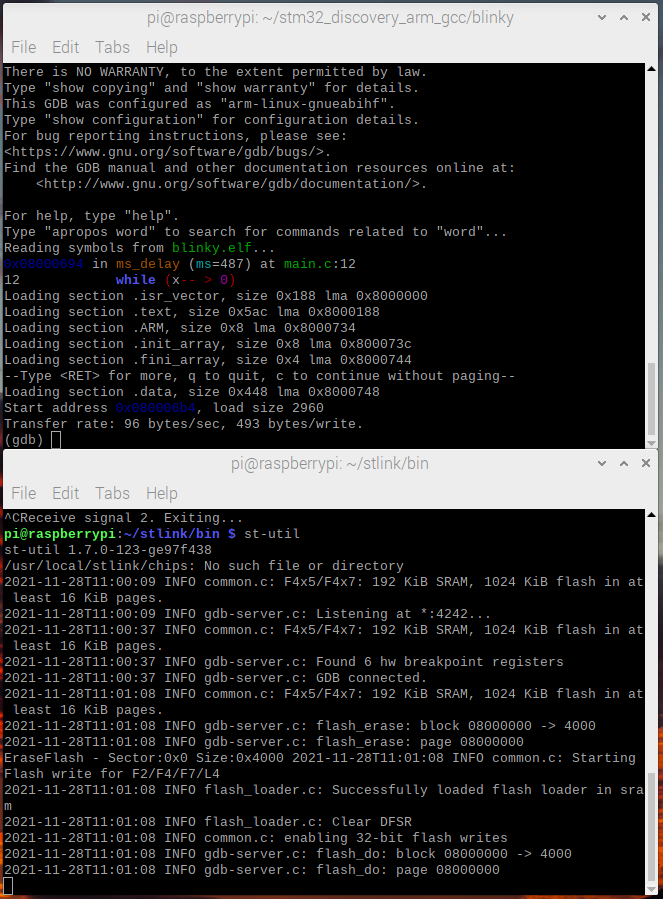
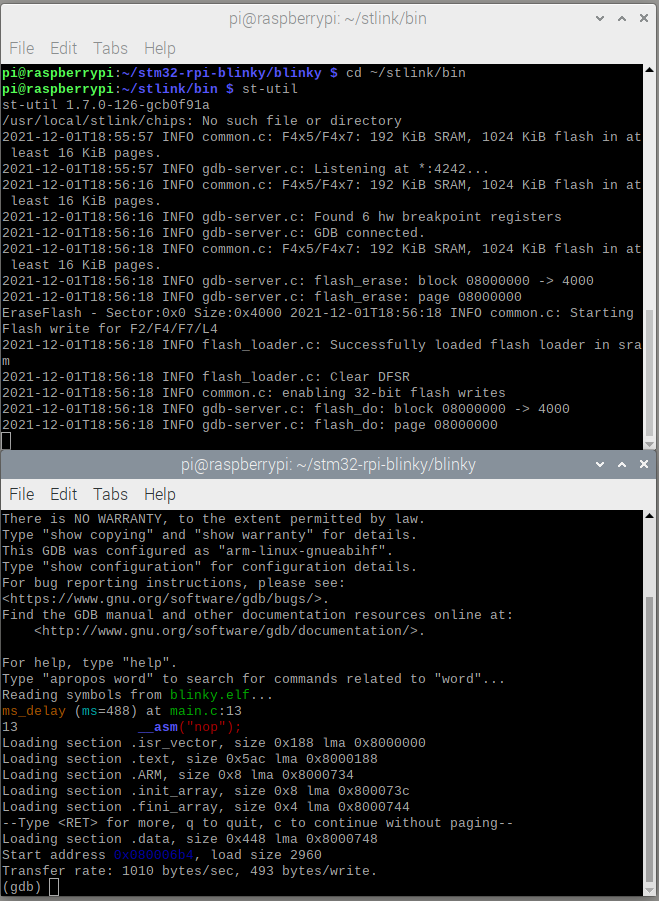
final touches

Changed region(s): [[0.0, 0.0, 1.0, 1.0], [0.8194, 0.9344, 0.8801, 0.9655], [0.8194, 0.436, 0.8801, 0.4672]]

diff --git a/README.md b/README.md
@@ -22,7 +22,7 @@ You should see something like this:
 
 ![sanity-check](/images/sanity-check.png)
 
-STM boards use an interface called STLINK for programming and debugging firmware, install this tool:
+STM boards use an interface called `stlink` for programming and debugging firmware, install this tool:
 
 ```
 sudo apt-get update
@@ -46,10 +46,10 @@ sudo cp *.so* /lib
 Then udev rules:
 
 ```
-sudo cp stlink/config/udev/rules.d/49-stlinkv* /etc/udev/rules.d/
+sudo cp ~/stlink/config/udev/rules.d/49-stlinkv* /etc/udev/rules.d/
 ```
 
-Restart the terminal, and then connect your STM board. Execute a probe command to see if it works:
+Restart the terminal, and then connect your board. A probe command will test if the connection is working:
 
 ```
 st-info --probe
@@ -57,7 +57,7 @@ st-info --probe
 
 You should see something like this:
 
-(ADD A SCREENSHOT HERE)
+![st-info-probe](/images/st-info-probe.png)
 
 Now we need to install `gdb-multiarch` (`arm-arm-none-gdb` that works on RPI's ARM platform)
 
@@ -93,12 +93,14 @@ Connect your board to the RPI, and flash it using the following commands:
 
 ```
 cd ~/stm32-rpi-blinky/blinky
-sudo make burn
+make burn
 ```
 
-Now press the black reset button, the red led should start blinking.
+A succesful flash:
 
-Note: the last command can also be done without "sudo" if you set the libusb permissions.
+![make-burn](/images/st-info-probe.png)
+
+Now press the black reset button, the red led should start blinking.
 
 ### Step 4: Debug setup
 
